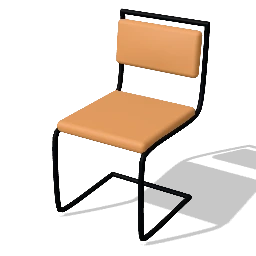
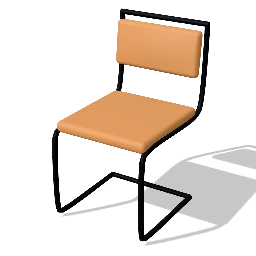
Stand splayed chair legs and the cantilever runners on the floor line

diff --git a/packages/catalog/src/premium/seating.chairs.ts b/packages/catalog/src/premium/seating.chairs.ts
@@ -149,7 +149,7 @@ function roundBack(p: Parts, W: number, D: number, H: number, sy: number): THREE
     const az = seatZ + sz * seatR * 0.55;
     const bx = sx * (W / 2 - 0.035);
     const bz = sz > 0 ? D / 2 - 0.035 : -D / 2 + 0.07;
-    p.part('frame', taperRod([bx, 0, bz], [ax, top, az], 0.012, 0.018, 12));
+    p.part('frame', taperRod([bx, 0.005, bz], [ax, top, az], 0.012, 0.018, 12));
   }
   // Ring stretcher at the height where the legs pass through it.
   const ry = 0.2;
@@ -190,7 +190,7 @@ function shell(p: Parts, W: number, D: number, H: number, sy: number): THREE.Gro
     for (const sz of [-1, 1]) {
       const ax = sx * W * 0.2;
       const az = seatZ + sz * seatD * 0.2;
-      p.part('legs', taperRod([sx * (W / 2 - 0.03), 0, sz > 0 ? D / 2 - 0.035 : -D / 2 + 0.06], [ax, top - 0.02, az], 0.011, 0.016, 12));
+      p.part('legs', taperRod([sx * (W / 2 - 0.03), 0.005, sz > 0 ? D / 2 - 0.035 : -D / 2 + 0.06], [ax, top - 0.02, az], 0.011, 0.016, 12));
     }
   }
   p.fixed('metal.black', rod([-W * 0.2, top - 0.035, seatZ - seatD * 0.2], [W * 0.2, top - 0.035, seatZ + seatD * 0.2], 0.005, 6));
@@ -208,8 +208,8 @@ function cantilever(p: Parts, W: number, D: number, H: number, sy: number): THRE
   for (const s of [-1, 1]) {
     const X = s * x;
     const pts: [number, number, number][] = [
-      [X, r + 0.001, -D / 2 + 0.11],
-      [X, r + 0.001, front - 0.06],
+      [X, r + 0.003, -D / 2 + 0.11],
+      [X, r + 0.003, front - 0.06],
       [X, r + 0.012, front - 0.012],
       [X, 0.07, front],
       [X, sy - 0.11, front],
@@ -222,7 +222,7 @@ function cantilever(p: Parts, W: number, D: number, H: number, sy: number): THRE
     ];
     p.part('frame', tubePath(pts, r));
   }
-  p.part('frame', rod([-x, r + 0.001, -D / 2 + 0.11], [x, r + 0.001, -D / 2 + 0.11], r, 10));
+  p.part('frame', rod([-x, r + 0.003, -D / 2 + 0.11], [x, r + 0.003, -D / 2 + 0.11], r, 10));
   p.part('frame', rod([-x, sy - 0.045, D / 2 - 0.09], [x, sy - 0.045, D / 2 - 0.09], r * 0.8, 10));
   p.part('frame', rod([-x - r * 0.6, H - r - 0.001, -D / 2 + r + 0.003], [x + r * 0.6, H - r - 0.001, -D / 2 + r + 0.003], r, 10));
   // Seat and back pads.
